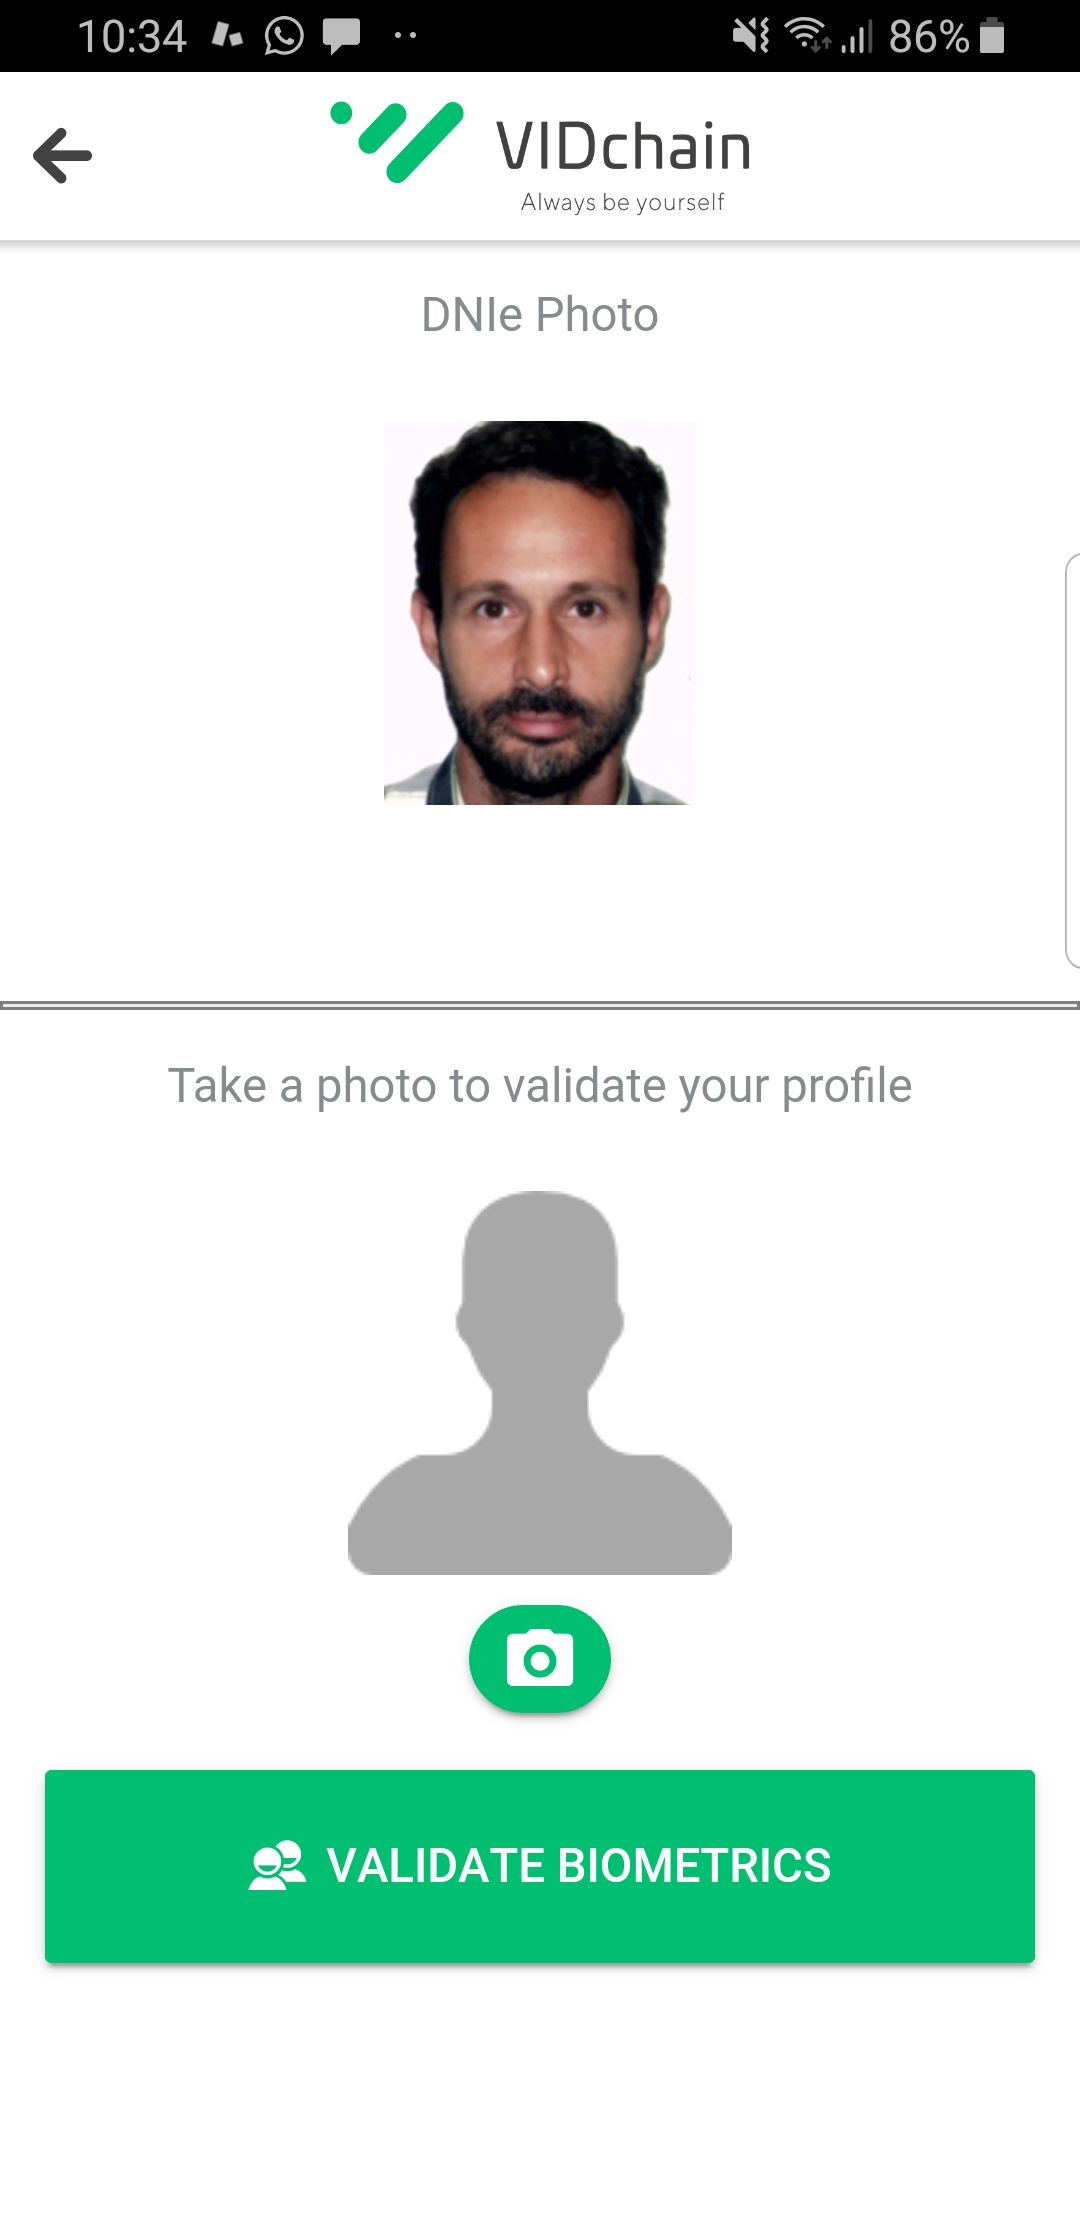
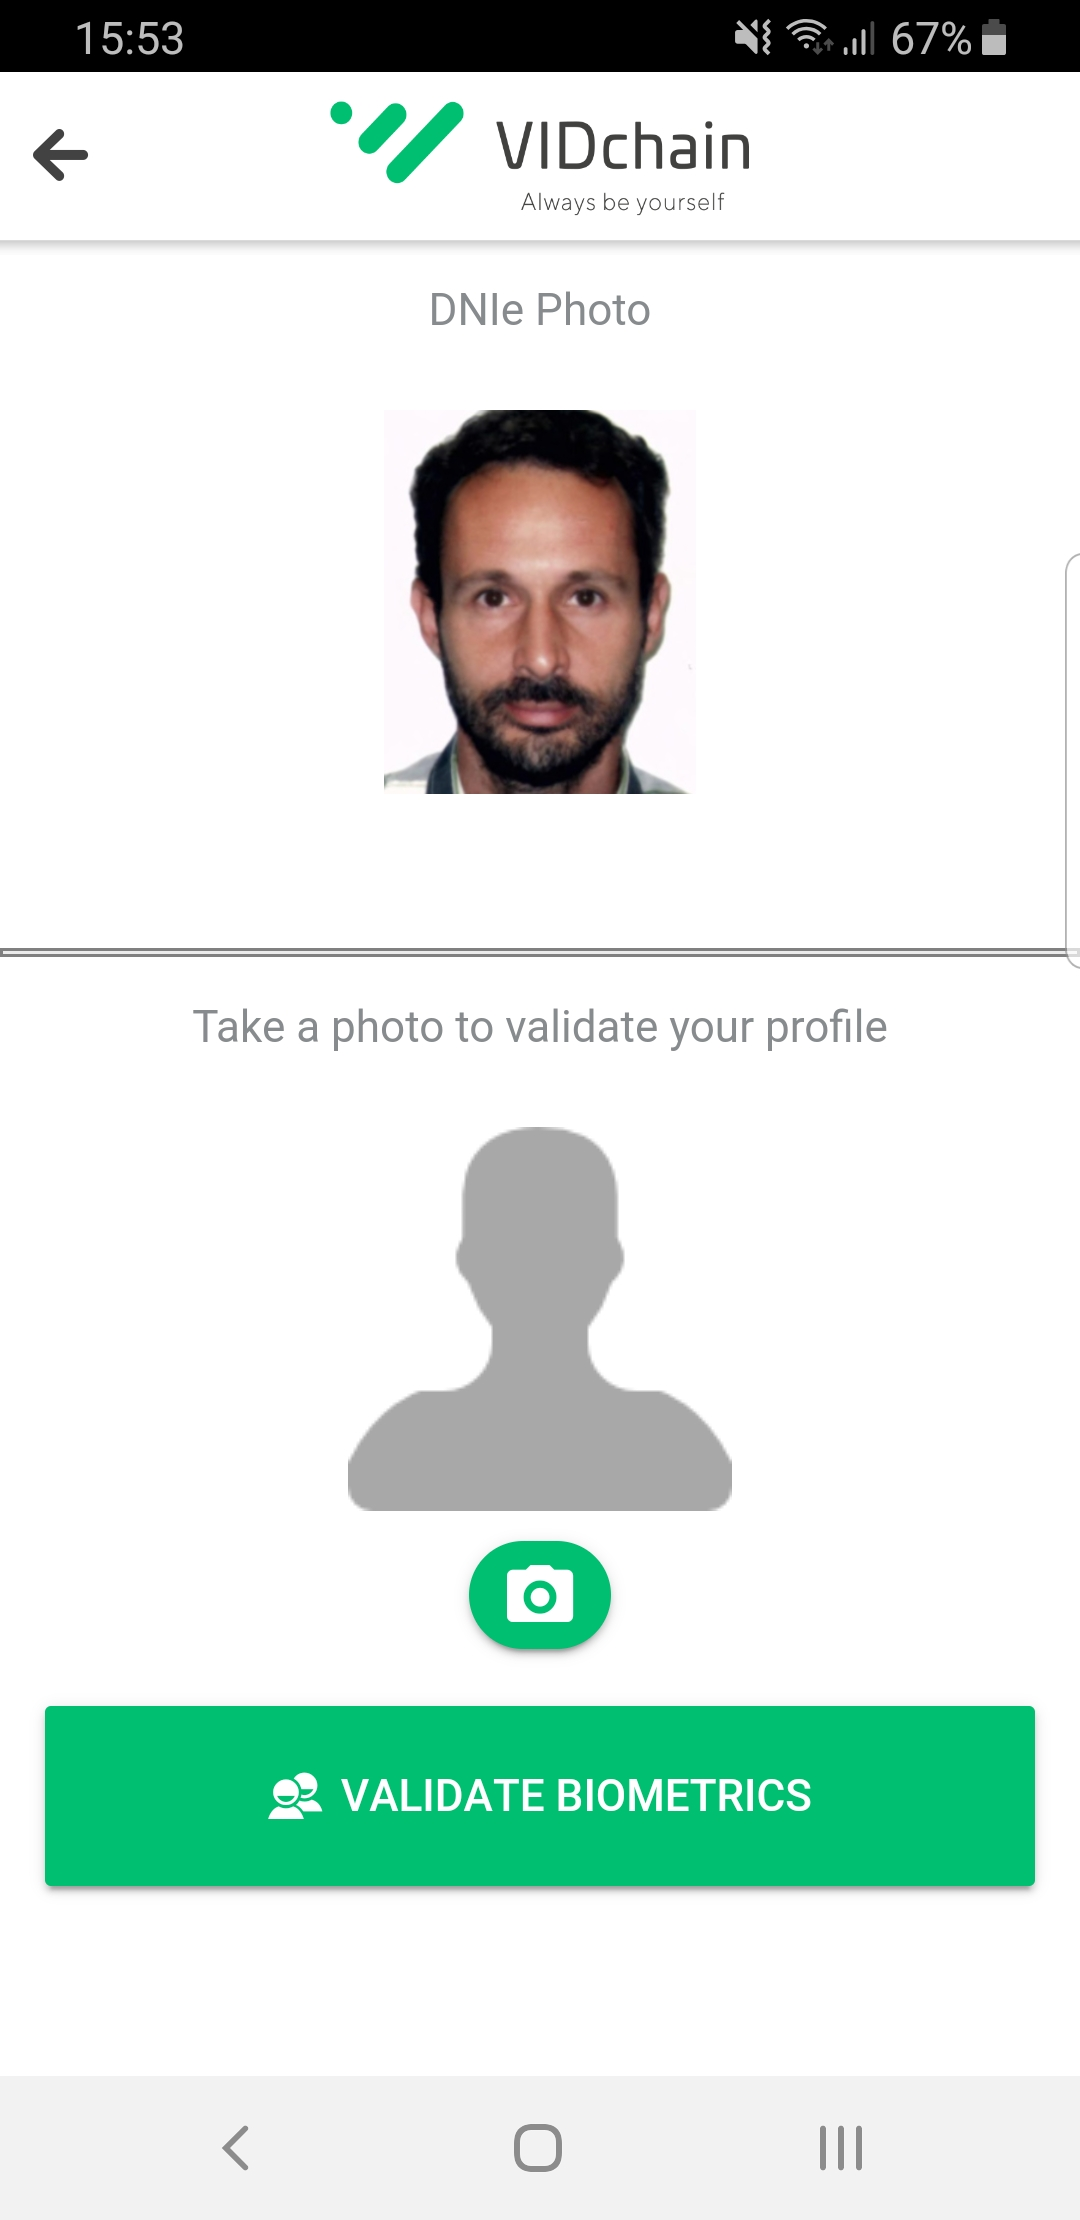
New screenshots for dni instructions // images resized

diff --git a/home/index.html b/home/index.html
@@ -216,13 +216,13 @@
                                         <div><a class="demo-container lightbox margin-bottom"><div class="demo-text"><p>Enter the DNIe CAN code and press 'START'.</p></div><img src="img/instructions/vid029.jpg" alt=""></a></div>
                                     </div>
                                     <div class="item">
-                                        <div><a class="demo-container lightbox margin-bottom"><div class="demo-text"><p>Take a photo to validate your profile.</p></div><img src="img/instructions/vid030.jpg" alt=""></a></div>
+                                        <div><a class="demo-container lightbox margin-bottom"><div class="demo-text"><p>Take a photo to validate your profile.</p></div><img class="resized" src="img/instructions/vid030.jpg" alt=""></a></div>
                                     </div>
                                     <div class="item">
-                                        <div><a class="demo-container lightbox margin-bottom"><div class="demo-text"><p>Once the photo is loaded, press "VALIDATE BIOMETRICS".</p></div><img src="img/instructions/vid031.jpg" alt=""></a></div>
+                                        <div><a class="demo-container lightbox margin-bottom"><div class="demo-text"><p>Once the photo is loaded, press "VALIDATE BIOMETRICS".</p></div><img class="resized" src="img/instructions/vid031.jpg" alt=""></a></div>
                                     </div>
                                     <div class="item">
-                                        <div><a class="demo-container lightbox margin-bottom"><div class="demo-text"><p>Your DNI attributes will be included in your ViDChain Wallet</p></div><img src="img/instructions/vid032.jpg" alt=""></a></div>
+                                        <div><a class="demo-container lightbox margin-bottom"><div class="demo-text"><p>Your DNI attributes will be included in your ViDChain Wallet</p></div><img class="resized" src="img/instructions/vid032.jpg" alt=""></a></div>
                                     </div>
                                 </div>
                             </div> <!-- margin -->

diff --git a/home/css/template-style.css b/home/css/template-style.css
@@ -139,6 +139,9 @@ p.logo strong {
 .container{
 	position: relative;
 }
+.resized{
+	max-height: 29.37em !important;
+}
 .top-left {
 	position: absolute;
 	top: 35%;
